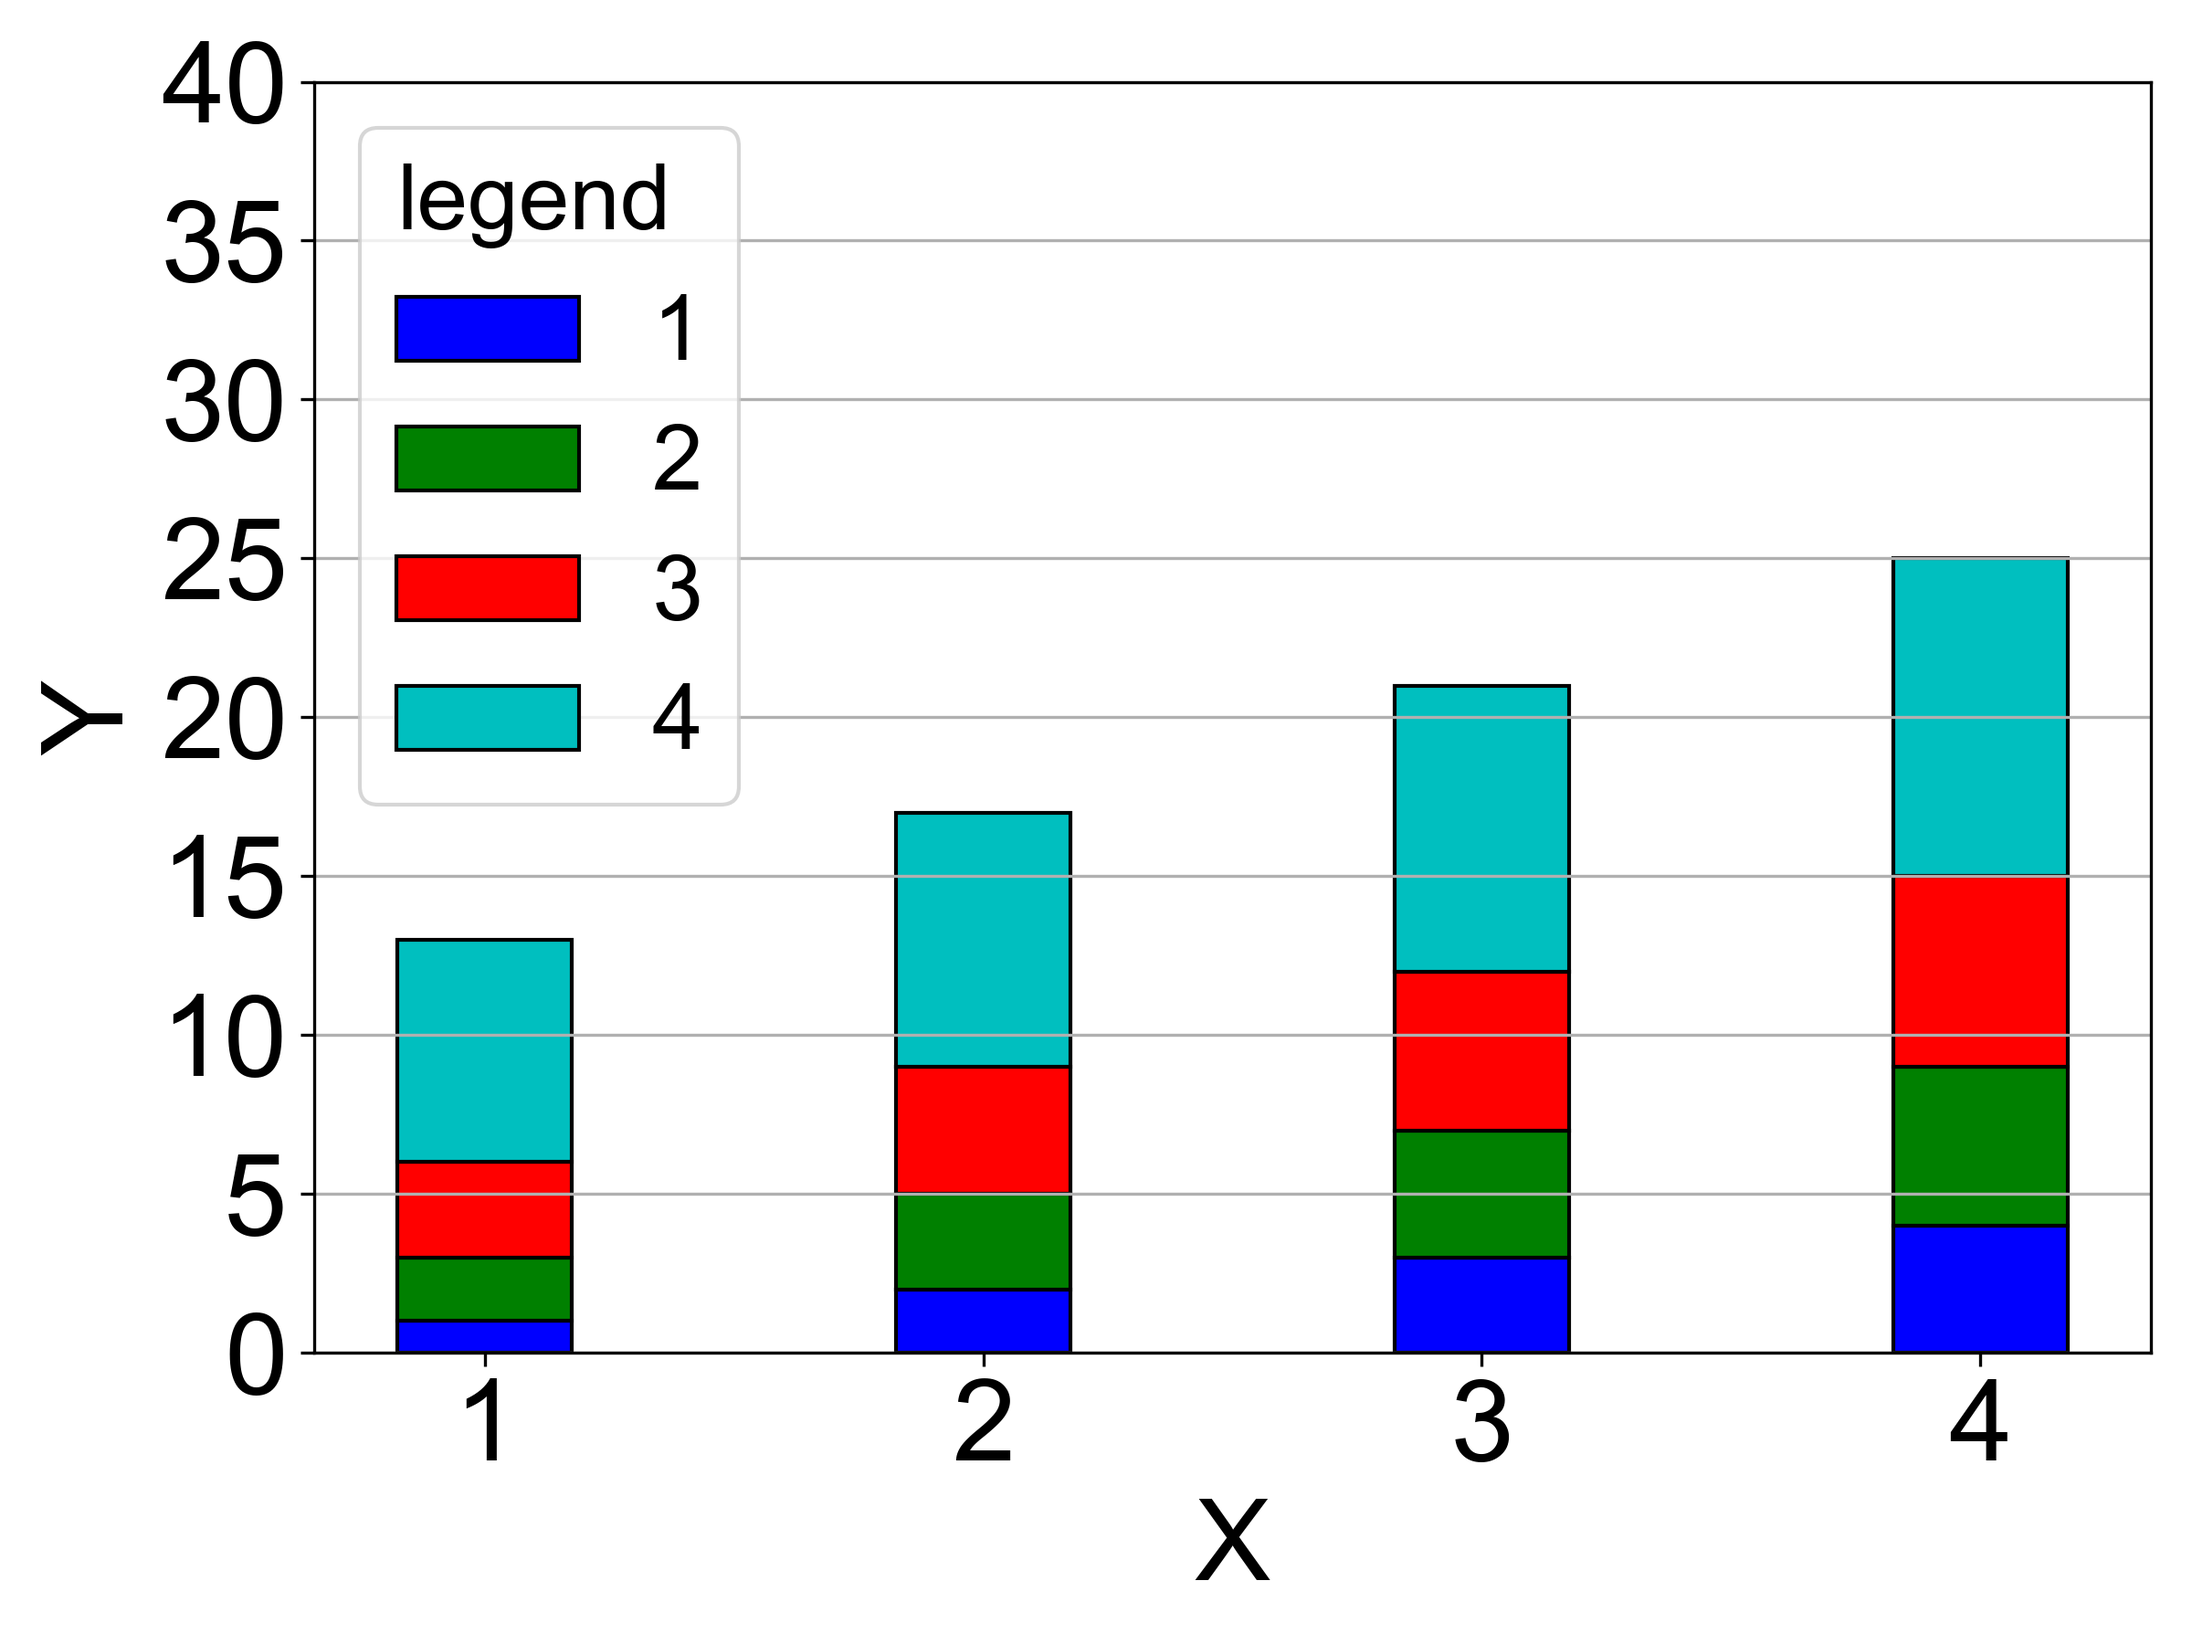
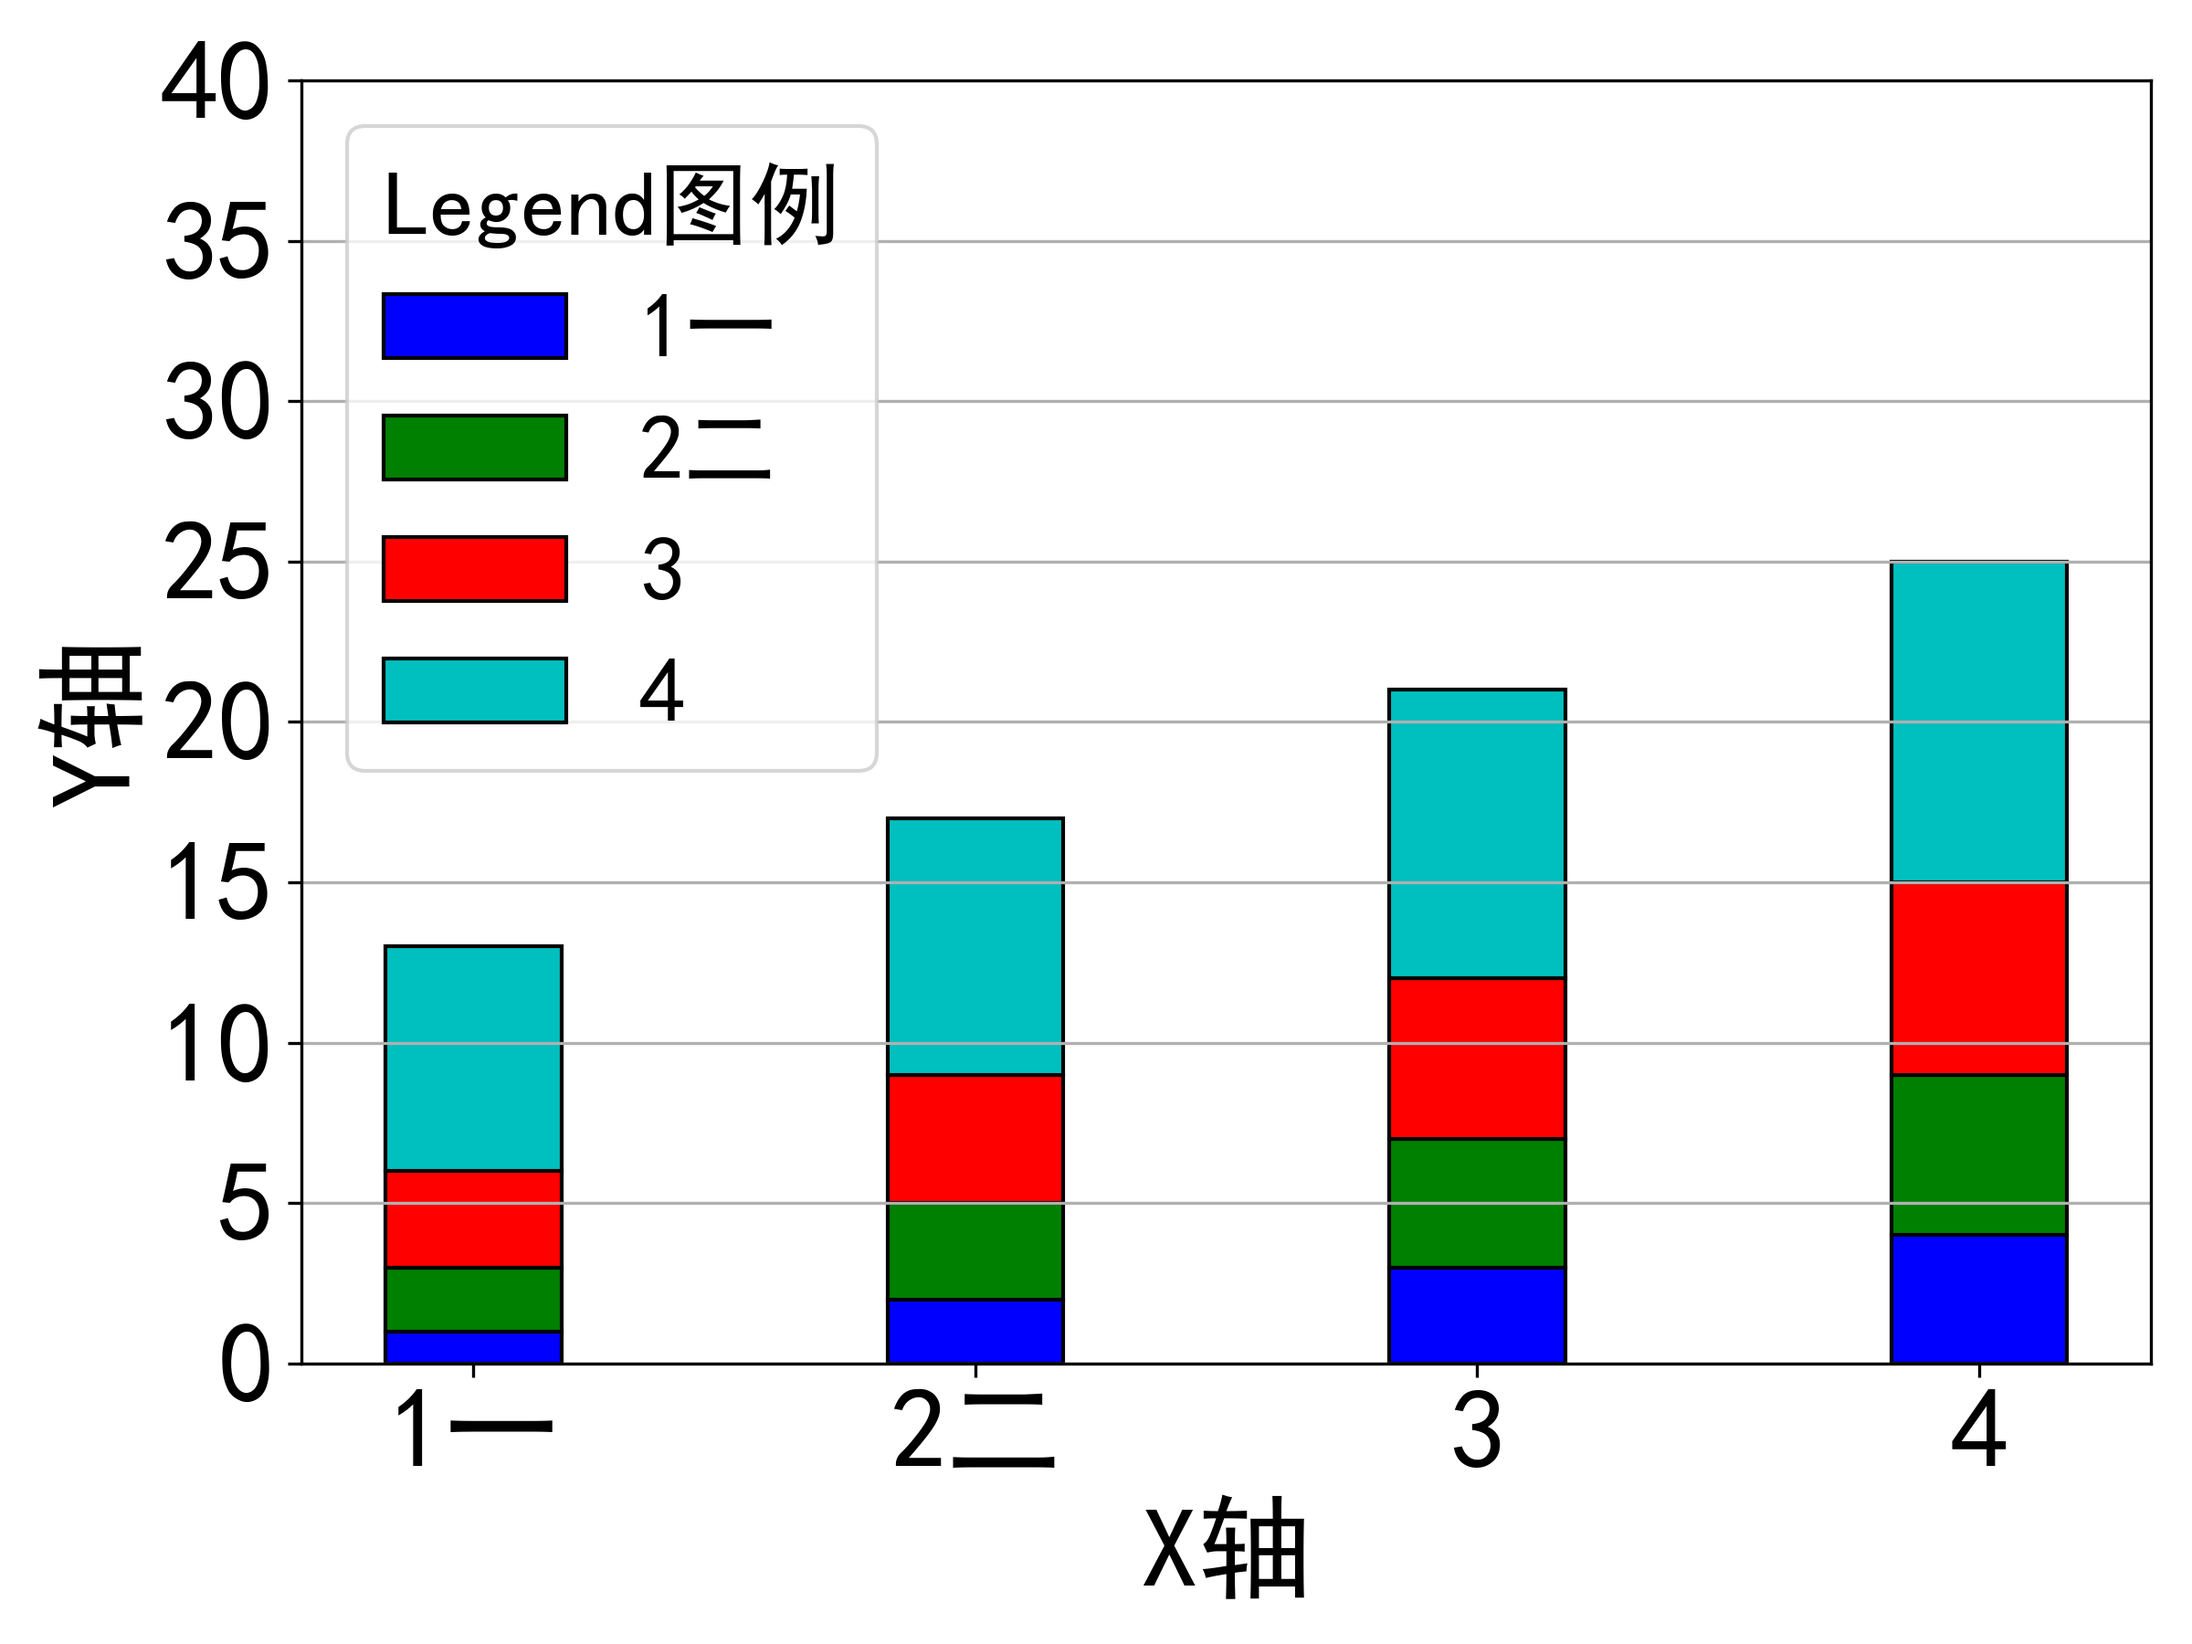
完成第三方字体改造

diff --git a/py_plotter/plot.py b/py_plotter/plot.py
@@ -505,11 +505,12 @@ class Plotter(Pyplot_config):
         cb.set_label(legend_label, fontdict={'size': self.label_size})
 
         # 设置x轴和y轴的标签字体和大小
-        ax.set_xlabel(x_label, fontdict={'size': self.label_size})
-        ax.set_ylabel(y_label, fontdict={'size': self.label_size})
+        font_property = FontProperties(fname=self.font_path, size=self.label_size)
+        ax.set_xlabel(x_label, fontproperties=font_property)
+        ax.set_ylabel(y_label, fontproperties=font_property)
         # 设置x轴和y轴的刻度字体和大小
-        plt.xticks(xticks, u_ms.astype(int), size=self.label_size)
-        plt.yticks(yticks, u_ns.astype(int), size=self.label_size)
+        plt.xticks(xticks, u_ms.astype(int), size=self.label_size, fontproperties=font_property)
+        plt.yticks(yticks, u_ns.astype(int), size=self.label_size, fontproperties=font_property)
 
         # 让角标变0
         x_formatter = CustomFormatter(ndigits=x_tick_ndigits)
@@ -550,8 +551,9 @@ class Plotter(Pyplot_config):
         cb.set_label(legend_label, fontdict={'size': self.label_size})
 
         # 设置x轴和y轴的标签字体和大小
-        ax.set_xlabel(x_label, fontdict={'size': self.label_size})
-        ax.set_ylabel(y_label, fontdict={'size': self.label_size})
+        font_property = FontProperties(fname=self.font_path, size=self.label_size)
+        ax.set_xlabel(x_label, fontproperties=font_property)
+        ax.set_ylabel(y_label, fontproperties=font_property)
         # 设置x轴和y轴的刻度字体和大小
         plt.xticks(xticks, u_ms.astype(int), size=self.label_size)
         plt.yticks(yticks, u_ns.astype(int), size=self.label_size)
@@ -581,8 +583,9 @@ class Plotter(Pyplot_config):
         fig = plt.figure(dpi=self.dpi, figsize=self.figsize)
         ax = plt.subplot(111)
         # 设置轴的标签字体和大小
-        ax.set_xlabel(x_label, fontdict={'size': self.label_size})
-        ax.set_ylabel(y_label, fontdict={'size': self.label_size})
+        font_property = FontProperties(fname=self.font_path, size=self.label_size)
+        ax.set_xlabel(x_label, fontproperties=font_property)
+        ax.set_ylabel(y_label, fontproperties=font_property)
 
         ind = np.arange(len(bar_data_list))  # the x locations for the groups
         bottom = [0 for i in range(len(bar_data_list[0]))]
@@ -596,14 +599,16 @@ class Plotter(Pyplot_config):
                 bottom[i] += bar_data[i]
 
         # 添加x轴名称
-        plt.xticks(ticks=ind, size=self.label_size, labels=legend_label_list)
-        plt.yticks(size=self.label_size)
+        plt.xticks(ticks=ind, size=self.label_size, labels=legend_label_list, fontproperties=font_property)
+        plt.yticks(size=self.label_size, fontproperties=font_property)
 
         # 创建图例
+        font_property_legend = FontProperties(fname=self.font_path, size=self.legend_size)
         legend = plt.legend(fontsize=self.legend_size, title=legend_title, loc=legend_loc,
                             ncol=legend_ncol,
-                            bbox_to_anchor=bbox_to_anchor)
-        legend.get_title().set_fontsize(fontsize=self.legend_size)
+                            bbox_to_anchor=bbox_to_anchor, prop=font_property_legend)
+        legend.get_title().set_fontsize(self.legend_size)
+        legend.get_title().set_font_properties(font_property_legend)
         legend._legend_box.align = "left"
 
         # 网格线
@@ -619,7 +624,7 @@ class Plotter(Pyplot_config):
                 plt.grid(axis=cmd)
 
         # 设置ylim
-        if y_min != None and y_max != None:
+        if y_min is not None and y_max is not None:
             plt.ylim(y_min, y_max)
 
         plt.tight_layout()
@@ -651,21 +656,29 @@ class Plotter(Pyplot_config):
             pc.set_alpha(0.8)
 
         # 设置坐标轴和标题
-        plt.xticks(np.arange(1, len(x_labels) + 1), x_labels, fontsize=self.tick_size)
-        plt.xlabel("Categories", fontsize=self.label_size)
-        plt.ylabel(y_label, fontsize=self.label_size)
+        font_property = FontProperties(fname=self.font_path, size=self.label_size)
+        plt.xticks(np.arange(1, len(x_labels) + 1), x_labels, fontsize=self.tick_size, fontproperties=font_property)
+        plt.xlabel("Categories", fontsize=self.label_size, fontproperties=font_property)
+        plt.ylabel(y_label, fontsize=self.label_size, fontproperties=font_property)
 
         if title != None:
             plt.title(title, fontdict={'size': self.title_size})
+            # 调整 title 的字体大小
+            font_property = FontProperties(fname=self.font_path, size=self.title_size)
+            plt.title(title, fontproperties=font_property)
 
         # 调整 tick 的字体大小
-        plt.yticks(fontsize=self.tick_size)
+        plt.yticks(fontsize=self.tick_size, fontproperties=font_property)
 
         # 添加图例
         if legend_label_list is not None:
             legend_patches = [mpatches.Patch(color=color, label=label) for color, label in
                               zip(self.color_list, legend_label_list)]
-            plt.legend(handles=legend_patches, fontsize=self.legend_size, loc='best')
+            font_property_legend = FontProperties(fname=self.font_path, size=self.legend_size)
+            legend = plt.legend(handles=legend_patches, fontsize=self.legend_size, loc='best', prop=font_property_legend)
+
+            legend.get_title().set_fontsize(self.legend_size)
+            legend.get_title().set_font_properties(font_property_legend)
 
         plt.tight_layout()
         savepath = os.path.join(save_root, filename)
@@ -699,20 +712,31 @@ class Plotter(Pyplot_config):
                                   color=self.color_list[j], alpha=0.8)
 
         # 设置坐标轴和标题
-        plt.xticks(np.arange(1, len(x_labels) + 1), x_labels, fontsize=self.tick_size)
-        plt.xlabel("Categories", fontsize=self.label_size)
-        plt.ylabel(y_label, fontsize=self.label_size)
+        font_property = FontProperties(fname=self.font_path, size=self.label_size)
+        plt.xticks(np.arange(1, len(x_labels) + 1), x_labels, fontsize=self.tick_size, fontproperties=font_property)
+        plt.xlabel("Categories", fontsize=self.label_size, fontproperties=font_property)
+        plt.ylabel(y_label, fontsize=self.label_size, fontproperties=font_property)
 
         if title != None:
             plt.title(title, fontdict={'size': self.title_size})
+            # 调整 title 的字体大小
+            font_property = FontProperties(fname=self.font_path, size=self.title_size)
+            plt.title(title, fontproperties=font_property)
+
 
         # 调整 tick 的字体大小
-        plt.yticks(fontsize=self.tick_size)
+        plt.yticks(fontsize=self.tick_size, fontproperties=font_property)
 
         # 添加图例
         if legend_label_list is not None:
             legend_patches = [mpatches.Patch(color=color, label=label) for color, label in zip(self.color_list, legend_label_list)]
-            plt.legend(handles=legend_patches, fontsize=self.legend_size, loc='best')
+            # 设置图例标题的字体大小
+            font_property_legend = FontProperties(fname=self.font_path, size=self.legend_size)
+            legend = plt.legend(handles=legend_patches, fontsize=self.legend_size, loc='best', prop=font_property_legend)
+
+            legend.get_title().set_fontsize(self.legend_size)
+            legend.get_title().set_font_properties(font_property_legend)
+
 
         plt.tight_layout()
         savepath = os.path.join(save_root, filename)

diff --git a/py_plotter/example.py b/py_plotter/example.py
@@ -3,13 +3,17 @@ import numpy as np
 
 def test_violin():
     # 创建一个Plotter实例
-    plotter = Plotter(figsize=(8, 6))
+    plotter = Plotter(
+        figsize=(8, 6),
+        font_thirdparty="SimSun",
+        font="Arial Unicode MS"
+    )
 
     # 准备数据
     data = [np.random.normal(0, 1, 100), np.random.normal(1, 2, 100), np.random.normal(2, 1, 100)]
-    x_labels = ['Category 1', 'Category 2', 'Category 3']
-    y_label = 'Value'
-    legend_label_list = ['Group 1', 'Group 2', 'Group 3']
+    x_labels = ['类别 1', 'Category 2', 'Category 3']
+    y_label = 'Value值'
+    legend_label_list = ['组 1', 'Group 2', 'Group 3']
 
     # 绘制violin图，添加图例
     plotter.plot_violin(data, x_labels, y_label, legend_label_list, title='Violin Plot with Legend Demo', is_show=True, save_root="./results")
@@ -17,17 +21,21 @@ def test_violin():
 
 def test_violin_twin():
     # 创建一个Plotter实例
-    plotter = Plotter(figsize=(8, 6))
+    plotter = Plotter(
+        figsize=(8, 6),
+        font_thirdparty="SimSun",
+        font="Arial Unicode MS"
+    )
 
     # 准备数据
     data = [(np.random.normal(0, 1, 100), np.random.normal(1, 2, 100)), (np.random.normal(2, 1, 100),
             np.random.normal(3, 1, 100))]
-    x_labels = ['Category 1', 'Category 2']
-    y_label = 'Value'
-    legend_label_list = ['Group 1', 'Group 2']
+    x_labels = ['类别 1', 'Category 2']
+    y_label = 'Value值'
+    legend_label_list = ['组 1', 'Group 2']
 
     # 绘制半边violin图，添加图例
-    plotter.plot_violin_twin(data, x_labels, y_label, legend_label_list, title='Half Violin Plot with Legend Demo',
+    plotter.plot_violin_twin(data, x_labels, y_label, legend_label_list, title='Half 小提琴Violin Plot with Legend Demo',
                         is_show=True, save_root="./results")
 
 
@@ -72,8 +80,8 @@ def test_chinese_stack_bars():
 
 
 if __name__ == "__main__":
-    # test_violin()
-    # test_violin_twin()
+    test_violin()
+    test_violin_twin()
     test_stack_bars()
 
 
@@ -177,9 +185,9 @@ if __name__ == "__main__":
         ns=[4, 5, 6, 4, 5, 6, 4, 5, 6],
         ys=[1, 1, 1, 1, 1, 1, 1, 1, 1],
         predict_ys=[1.1, 1.2, 1.3, 1.4, 1.5, 1.6, 1.7, 1.8, 1.9],
-        x_label="X",
-        y_label="Y",
-        legend_label="Error",
+        x_label="X轴",
+        y_label="Y周",
+        legend_label="Error误差",
         save_root="./results",
         filename="plot_error_grids_demo"
     )
@@ -188,9 +196,9 @@ if __name__ == "__main__":
         x_list=[1, 1, 1, 2, 2, 3, 3, 3, 3],
         y_list=[4, 5, 6, 4, 5, 6, 4, 5, 6],
         z_list=[1.1, 2.2, 1.3, 1.4, 4.5, 1.6, 1.7, 1.8, 4.9],
-        x_label="X",
-        y_label="Y",
-        legend_label="Error",
+        x_label="X轴",
+        y_label="Y轴",
+        legend_label="Error误差",
         save_root="./results",
         filename="plot_grids_demo"
     )
@@ -202,11 +210,12 @@ if __name__ == "__main__":
             [3, 4, 5, 6],
             [7, 8, 9, 10]
         ],
-        legend_label_list=["1", "2", "3", "4"],
-        x_label="X",
-        y_label="Y",
+        legend_label_list=["1一", "2二", "3", "4"],
+        x_label="X轴",
+        y_label="Y轴",
         save_root="./results",
         filename="plot_acc_bars_demo",
+        legend_title="Legend图例",
         y_min=0,
         y_max=40,
     )
